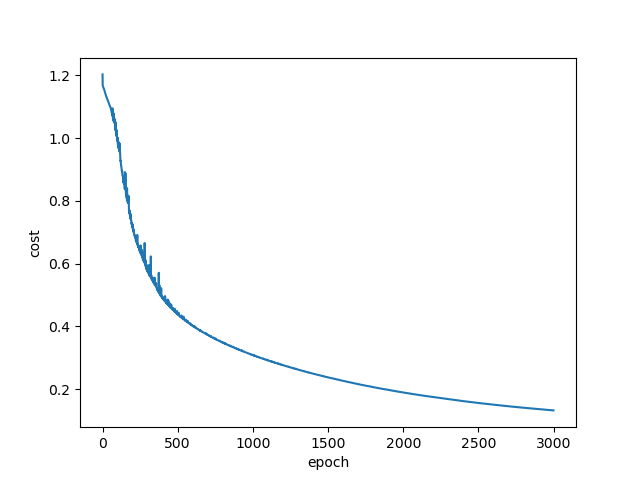
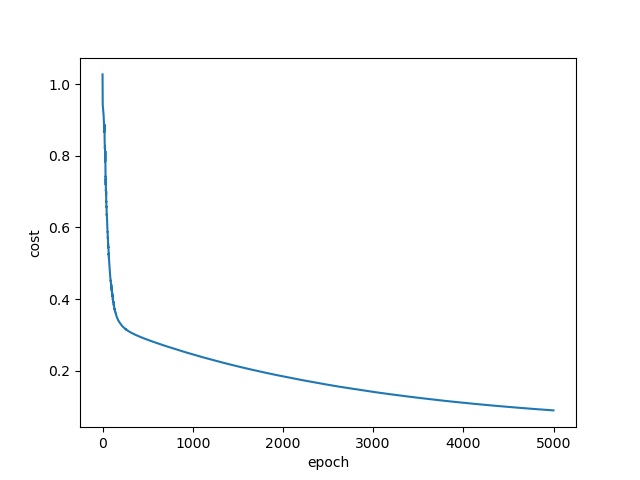
fix: predict function on test_cats.py
also added some documentation

diff --git a/src/ldnn.py b/src/ldnn.py
@@ -1,3 +1,4 @@
+import time
 from typing import Callable, Any
 
 import numpy as np
@@ -9,11 +10,25 @@ from src.ldnn_utils import create_batches_generator
 
 
 def compute_cost(AL, Y, params, l2_lambda, loss=binary_crossentropy):
+    """
+
+    :param AL: output matrix of the model
+    :param Y: input labels
+    :param params: dictionary containing W and b matrices
+    :param l2_lambda: l2 regularization parameter
+    :param loss: function to be used on loss calculation
+    :return: float cost, associated with the current outputs of the network
+    """
+
+    # number of examples
     m = Y.shape[1]
+    # computation of Frobenius norm for W
     l2_reg_term = 0
     for l in params:
         l2_reg_term += np.square(params[l]['W']).sum()
 
+    # average of the loss plus l2 regularization term. l2_lambda == 0 means
+    # no regularization
     cost = (1 / m) * np.sum(loss(AL, Y)) + ((l2_lambda/(2*m))*l2_reg_term)
     cost = cost.squeeze()
     assert cost.shape == ()
@@ -21,6 +36,24 @@ def compute_cost(AL, Y, params, l2_lambda, loss=binary_crossentropy):
 
 
 def initialize_parameters(n_dims: Any, weights_initializer: Callable[[int, int], Any], seed=1):
+    """
+    :param n_dims: number of units in each layer of the network, including
+     the input layer.
+    :param weights_initializer: function used to create and initialize the
+     weights matrix
+    :param seed: seed for the random number generation
+    :return: dictionary containing L layers, where L is equal to len(n_dims) - 1.
+     Each layer is also a dictionary containing the keys 'W' and 'b', witch are
+     the weights and bias matrix.
+
+     Ex:
+        >>> params = initialize_parameters([2, 2, 1], xavier_init)
+        >>> params.keys()
+        dict_keys([1, 2])
+        >>> params[1].keys()
+        dict_keys(['W', 'b'])
+    """
+
     np.random.seed(seed)
     params = {}
     for l in range(1, len(n_dims)):
@@ -33,6 +66,15 @@ def initialize_parameters(n_dims: Any, weights_initializer: Callable[[int, int],
 
 
 def forward_linear(A, W, b):
+    """
+
+    :param A: inputs for the current layer, can be X (network input)
+     or the activation from the previous layer.
+    :param W: weights matrix for the layer
+    :param b: bias matrix for the layer
+    :return Z: output for the layer (before the activation)
+    :return cache: A, W and b inputs to be used on other computations
+    """
     Z = np.dot(W, A) + b
     cache = (A, W, b)
     return Z, cache
@@ -42,6 +84,7 @@ def forward_linear_activation(A_prev, W, b, activation=sigmoid):
     assert (W.shape[0] == b.shape[0])
     assert (A_prev.shape[0] == W.shape[1])
 
+    # linear_cache is (A_prev, W, b)
     Z, linear_cache = forward_linear(A_prev, W, b)
     A = activation(Z)
 
@@ -49,6 +92,7 @@ def forward_linear_activation(A_prev, W, b, activation=sigmoid):
     assert (A.shape == (W.shape[0], A_prev.shape[1]))
 
     activation_cache = Z
+    # cache is (Z, A_prev, W, b)
     cache = (linear_cache, activation_cache)
     return A, cache
 
@@ -152,11 +196,14 @@ def l_layer_model_train(X, Y,
     params = initialize_parameters(layer_dims, weights_initializer)
     costs = []
 
+    # shuffle and partition X and Y into batches
     batches = list(create_batches_generator(X, Y, batch_size))
 
     for epoch in range(epochs):
         batch_costs = []
+        batch_times = []
         for x_batch, y_batch in batches:
+            batch_start_time = time.time()
             AL, caches = l_model_forward(x_batch, params,
                                          hidden_layers_activation,
                                          output_layer_activation)
@@ -165,10 +212,15 @@ def l_layer_model_train(X, Y,
                                      hidden_layers_activation,
                                      output_layer_activation)
             params = update_parameters(params, grads, learning_rate)
+            batch_end_time = time.time()
+            batch_times.append(batch_end_time - batch_start_time)
         epoch_cost = np.mean(batch_costs).squeeze()
+        epoch_running_time = np.sum(batch_times).astype(float)
+        batch_running_mean_time = np.mean(batch_times).astype(float)
         costs.append(epoch_cost)
         # Print the cost every 100 training example
         if print_costs and epoch % 100 == 0:
-            print("Cost after epoch %i: %f" % (epoch, epoch_cost))
+            print("Cost after epoch %i: %f - Batch time: %f, Epoch time: %f" %
+                  (epoch, epoch_cost, batch_running_mean_time, epoch_running_time))
 
     return params, costs

diff --git a/src/test_cats.py b/src/test_cats.py
@@ -22,16 +22,16 @@ def load_data():
     return train_set_x_orig, train_set_y_orig, test_set_x_orig, test_set_y_orig, classes
 
 
-def predict(X, y, parameters):
-
+def predict(X, Y, parameters):
+    assert X.shape[1] == Y.shape[1]
+    assert parameters[1]['W'].shape[1] == X.shape[0]
     m = X.shape[1]
-    p = np.zeros((1, m))
-
     # Forward propagation
-    AL, _ = l_model_forward(test_x, params)
-    p = np.array(list(map(lambda x: 1 if x>0.5 else 0, AL.squeeze())))
-    print("Accuracy: " + str(np.sum((p == y) / m)))
-    return p
+    AL, _ = l_model_forward(X, parameters)
+    # mapping probabilities outputted by the model to predictions
+    predictions = np.array(list(map(lambda x: 1 if x>0.5 else 0, AL.squeeze())))
+    print("Accuracy: " + str(np.sum((predictions == Y) / m)))
+    return predictions
 
 
 train_x_orig, train_y, test_x_orig, test_y, classes = load_data()
@@ -40,11 +40,11 @@ train_x = np.reshape(train_x_orig, (train_x_orig.shape[0], -1)).T/255.
 test_x = np.reshape(test_x_orig, (test_x_orig.shape[0], -1)).T/255.
 
 params, costs = l_layer_model_train(train_x, train_y,
-                    [train_x.shape[0], 20, 7, 5, 1],
-                    epochs=3000,
+                    [train_x.shape[0], 20, 20, 20, 1],
+                    epochs=30000,
                     learning_rate=0.002,
                     batch_size=16,
-                    l2_lambda=0.1,
+                    l2_lambda=0.01,
                     print_costs=True)
 plot_costs(costs)
 
